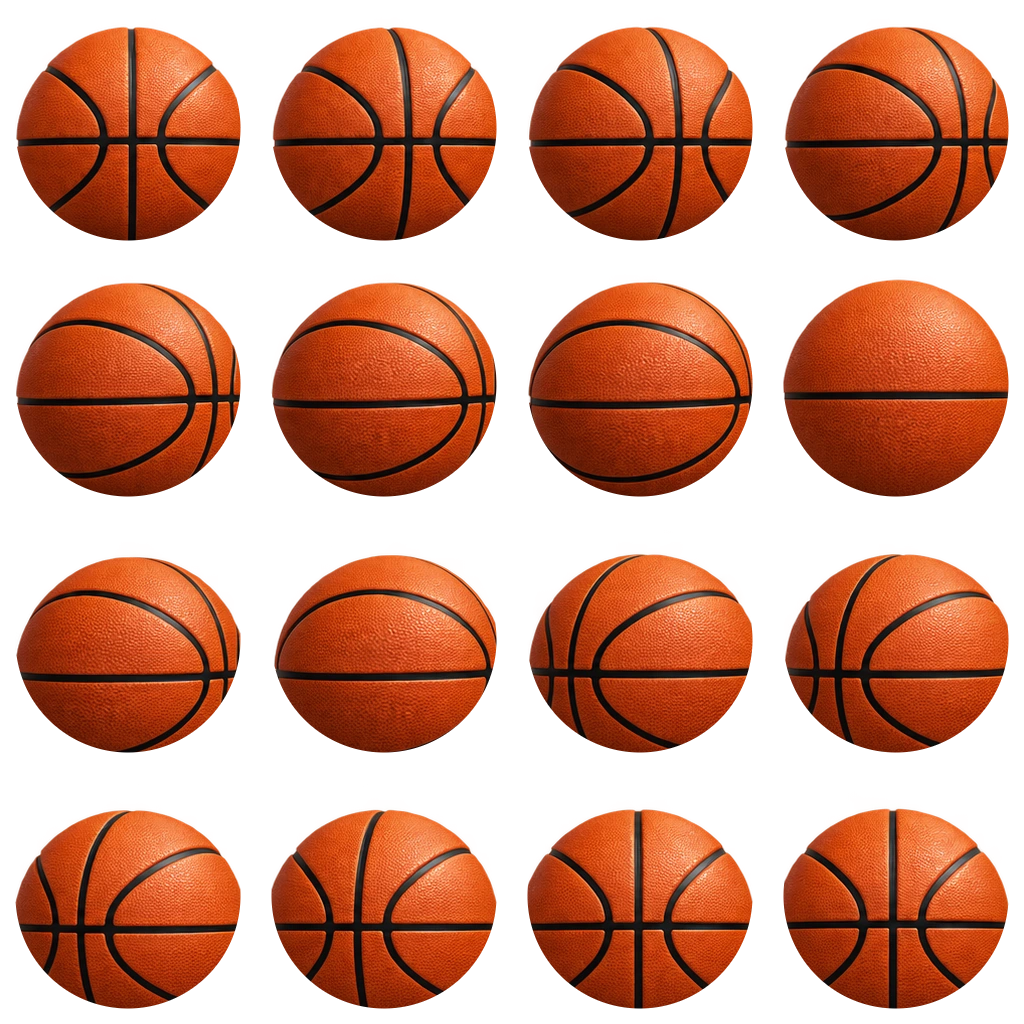
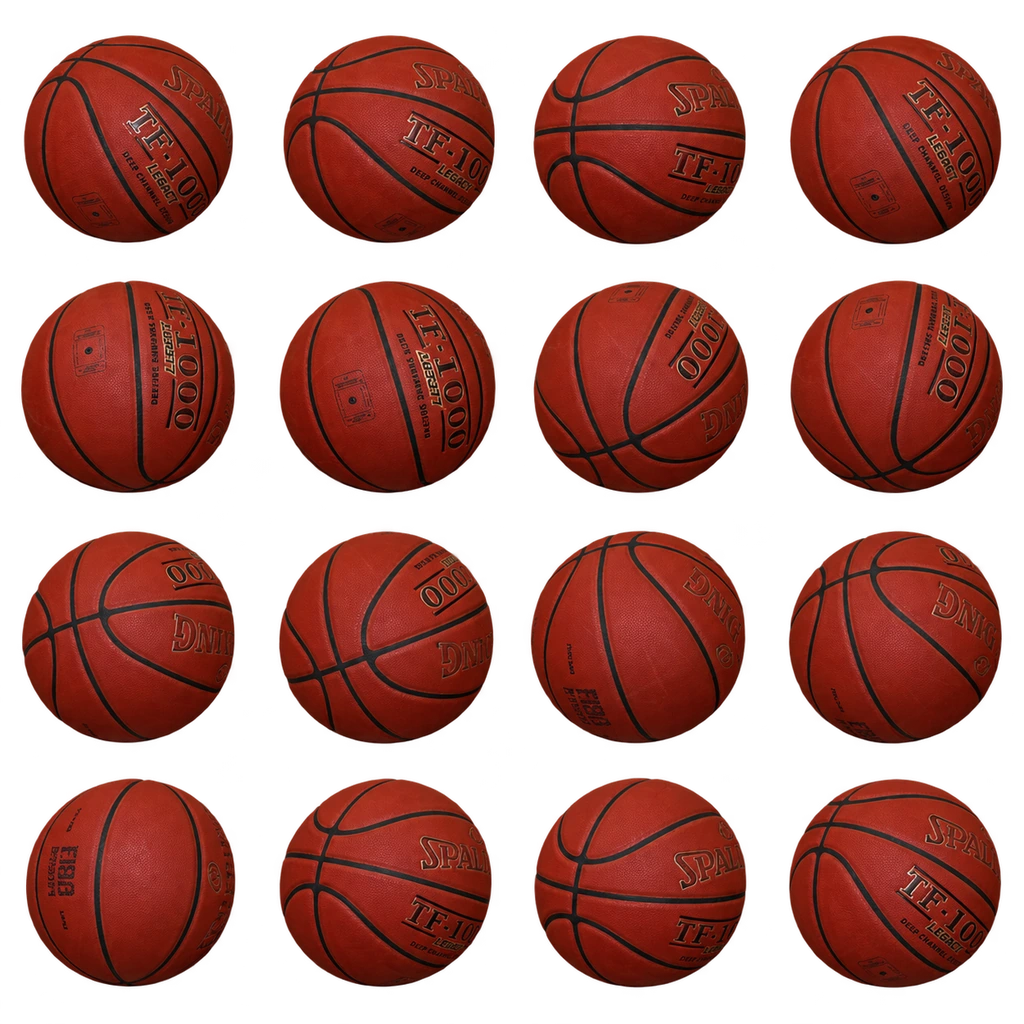
feat(hero): photographed Spalding sprite and diagonal distance-driven roll
* ci(asset): one-time PNG to verified 4x4 WebP conversion on feature branch

* assets(hero): convert photographed 16-frame PNG into WebP

* chore(asset): remove completed one-time PNG conversion workflow

* feat(hero): straight diagonal and distance-based real-ball frame rotation

* fix(hero): first frame aligns with new top-right roll and unrotated photo sprite

* docs(hero): photographed WebP conversion and physically coupled diagonal roll

---------

diff --git a/resources/js/page-builder-rolling-ball.js b/resources/js/page-builder-rolling-ball.js
@@ -8,21 +8,16 @@ const rollingBallReducedMotion = window.matchMedia('(prefers-reduced-motion: red
 // the sprite renderer or reintroducing slide-specific layers.
 const rollingBallProfiles = {
     mobile: {
-        path: 'M 235 405 C 430 440 785 510 850 615 C 900 735 600 920 205 1000',
-        startScale: .75,
-        endScale: 1,
+        from: [850, 405], to: [205, 1000],
+        startScale: .75, endScale: 1, tileSize: 122,
     },
     tablet: {
-        path: 'M 410 425 C 555 445 775 485 785 590 C 800 730 575 907 290 1000',
-        startScale: .43,
-        endScale: 1,
+        from: [785, 425], to: [290, 1000],
+        startScale: .43, endScale: 1, tileSize: 165,
     },
     desktop: {
-        // Tighter court-perspective arc: rightmost ~77%, landing at 31.5%.
-        // A small starting ball reads as distant at natural parquet scale.
-        path: 'M 520 440 C 615 445 735 495 745 595 C 760 750 590 900 315 1000',
-        startScale: .22,
-        endScale: 1,
+        from: [745, 440], to: [315, 1000],
+        startScale: .22, endScale: 1, tileSize: 195,
     },
 };
 // Old brightness at scroll 0 was .07 (almost entirely black). Its halfway
@@ -45,8 +40,18 @@ const rollingBallTravelEase = value => {
 // The ball now completes the entire first-scene path in 70% of the
 // formerly required scroll distance, then remains attached to the hero.
 const rollingBallTimelineFactor = .7;
-const rollingBallCycles = 6;
 const rollingBallSpriteFrames = 16;
+const rollingBallAssetRevision = 'photo-20261017-v1';
+const rollingBallTwoPi = 2 * Math.PI;
+
+// Approximate no-slip physical rolling: angular displacement = integral(ds/R)
+// along the straight, screen-projected path as the apparent radius grows.
+function rollingBallAngularTravel(distance, startRadius, endRadius, progress) {
+    const t = rollingBallClamp(progress, 0, 1);
+    const delta = endRadius - startRadius;
+    if (Math.abs(delta) < 1e-6) return distance * t / startRadius;
+    return distance * Math.log((startRadius + delta * t) / startRadius) / delta;
+}
 
 function initRollingBall(root) {
     if (root.dataset.rollingBallReady === '1') return;
@@ -71,11 +76,20 @@ function initRollingBall(root) {
             root.style.setProperty('--ball-image', `url("${url.replaceAll('"', '%22')}")`);
         }
     };
+    // Bypass cached old WebP while preserving Filament custom asset URLs.
+    const originalUrl = new URL(sprite.getAttribute('src') || sprite.src, location.href);
+    if (originalUrl.pathname === '/images/ball-16.webp') {
+        originalUrl.searchParams.set('v', rollingBallAssetRevision);
+        sprite.src = originalUrl.toString();
+    }
     if (sprite.complete) useSprite();
     else sprite.addEventListener('load', useSprite, { once: true });
 
-    const path = document.createElementNS('http://www.w3.org/2000/svg', 'path');
-    let pathLength = 0;
+    let apparentPathDistance = 0;
+    let startRadius = 1;
+    let endRadius = 1;
+    let roundedTurns = 1;
+    let maxPhysicalAngle = 1;
     let start = 0;
     let distance = 270;
     let target = 0;
@@ -88,13 +102,19 @@ function initRollingBall(root) {
     function paint(progress) {
         const p = rollingBallReducedMotion.matches ? 1 : progress;
         const travel = rollingBallTravelEase(p);
-        const point = path.getPointAtLength(pathLength * travel);
+        // Both axes use the same progress: geometrically a straight line.
+        const x = activeProfile.from[0] + (activeProfile.to[0] - activeProfile.from[0]) * travel;
+        const y = activeProfile.from[1] + (activeProfile.to[1] - activeProfile.from[1]) * travel;
         const light = rollingBallSmooth(travel);
-        // First and final frames are *exactly* frame 0 (frontal view).
-        const frame = p >= 1 ? 0 : Math.round(travel * rollingBallSpriteFrames * rollingBallCycles) % rollingBallSpriteFrames;
+        const angle = rollingBallAngularTravel(apparentPathDistance, startRadius, endRadius, travel);
+        // Nearest complete number of revolutions guarantees frame 0 on landing.
+        const framesTravelled = maxPhysicalAngle > 0
+            ? angle / maxPhysicalAngle * roundedTurns * rollingBallSpriteFrames
+            : 0;
+        const frame = p >= 1 ? 0 : Math.floor(framesTravelled + 1e-8) % rollingBallSpriteFrames;
 
-        root.style.left = (point.x / 10).toFixed(3) + '%';
-        root.style.top = (point.y / 10).toFixed(3) + '%';
+        root.style.left = (x / 10).toFixed(3) + '%';
+        root.style.top = (y / 10).toFixed(3) + '%';
         root.style.setProperty('--ball-scale',
             (activeProfile.startScale + (activeProfile.endScale - activeProfile.startScale) * travel).toFixed(4));
         root.style.setProperty('--ball-brightness',
@@ -115,8 +135,13 @@ function initRollingBall(root) {
         const rect = slider.getBoundingClientRect();
         const band = rect.width <= 640 ? 'mobile' : rect.width <= 1050 ? 'tablet' : 'desktop';
         activeProfile = rollingBallProfiles[band];
-        path.setAttribute('d', activeProfile.path);
-        pathLength = path.getTotalLength();
+        const dx = (activeProfile.to[0] - activeProfile.from[0]) / 1000 * rect.width;
+        const dy = (activeProfile.to[1] - activeProfile.from[1]) / 1000 * rect.height;
+        apparentPathDistance = Math.hypot(dx, dy);
+        startRadius = activeProfile.tileSize * activeProfile.startScale / 2;
+        endRadius = activeProfile.tileSize * activeProfile.endScale / 2;
+        maxPhysicalAngle = rollingBallAngularTravel(apparentPathDistance, startRadius, endRadius, 1);
+        roundedTurns = Math.max(1, Math.round(maxPhysicalAngle / rollingBallTwoPi));
         // If Hero is already within the initial viewport (homepage), start
         // at scrollY=0 rather than waiting for a fixed header offset.
         // Below-the-fold scenes start when they approach the viewport.

diff --git a/resources/css/page-builder-rolling-ball.css b/resources/css/page-builder-rolling-ball.css
@@ -19,7 +19,7 @@
 .mskba-page-builder .mskba-rolling-ball {
     position: absolute;
     z-index: 3;
-    left: 23.5%;
+    left: 85%;
     top: 40.5%;
     width: 0;
     height: 0;
@@ -41,11 +41,12 @@
     height: 122px;
     left: 0;
     top: 0;
-    background-image: var(--ball-image, url('/images/ball-16.webp'));
+    background-image: var(--ball-image, url('/images/ball-16.webp?v=photo-20261017-v1'));
     background-repeat: no-repeat;
     background-size: 400% 400%;
     background-position: var(--ball-frame-x) var(--ball-frame-y);
-    transform: translate(-50%, -50%) scale(var(--ball-scale)) rotate(90deg);
+    /* Photo frames already follow the physical roll axis: no legacy 90deg correction. */
+    transform: translate(-50%, -50%) scale(var(--ball-scale));
     transform-origin: center center;
     filter: brightness(var(--ball-brightness)) saturate(var(--ball-saturation))
         drop-shadow(0 6px 8px rgba(0,0,0,.34));
@@ -71,7 +72,7 @@
 }
 @container mskba-rolling-scene (min-width: 641px) {
     .mskba-page-builder .mskba-rolling-ball {
-        left: 41%;
+        left: 78.5%;
         top: 42.5%;
         --ball-scale: .43;
     }
@@ -79,7 +80,7 @@
 }
 @container mskba-rolling-scene (min-width: 1051px) {
     .mskba-page-builder .mskba-rolling-ball {
-        left: 52%;
+        left: 74.5%;
         top: 44%;
         --ball-scale: .22;
     }

diff --git a/docs/specification/page-builder-rolling-ball-temporary.md b/docs/specification/page-builder-rolling-ball-temporary.md
@@ -44,27 +44,39 @@ upgrade. Do not add
 `<script>`, inline CSS, SVG, or event-handler attributes to editor HTML.
 **Slider itself is intentionally untouched.**
 
-The sprite must be exactly 1024 x 1024, a 4 x 4 grid of 256 x 256
-square frames. The approved file is now tracked at
-`public/images/ball-16.webp` and is served at `/images/ball-16.webp`.
-A different size will not activate the overlay, by design.
+The photographed source sprite `public/images/ball-16.png` is 1254 x 1254,
+with 16 RGBA frames in a 4 x 4 grid. Each tile is cropped independently
+using rounded quarter-sheet boundaries and resized to 256 x 256, avoiding
+bleed across half-pixel tile boundaries. The optimized file is
+`public/images/ball-16.webp` (1024 x 1024, 4 x 4). Conversion verified
+16 nonempty frames and preserved alpha. The transparent WebP is **301,614 B**
+vs **1,942,087 B** source PNG (84.5% smaller).
+The homepage's existing Filament HTML continues to reference
+`/images/ball-16.webp`. The frontend uses `?v=photo-20261017-v1` to
+avoid the previous sprite from browser cache. The rendered image must be
+1024 x 1024; other sizes are rejected before use.
 
 ## Current behavior
 
-- Three motion profiles selected by **actual scene width** (<=640,
-  641–1050, >1050), not browser/device brand. Each profile controls its own
-  path and scale; light level is currently shared across profiles:
-  - mobile: ball tile 122 CSS px, scale **0.75 → 1.00**; existing path untouched
-    (rightmost center at ~85.5% of Hero, final center at 20.5%).
-  - tablet: tile 165 CSS px, scale **0.43 → 1.00**; rightmost center ~78.6%,
-    final center at 29%.
-  - desktop: tile 195 CSS px, scale **0.22 → 1.00**; rightmost center ~74.6%,
-    final center at 31.5%, to the right of the CTA.
-- Profiles describe **apparent size relative to court perspective**;
-  end scale remains 1.00 on all screen sizes. First paint in CSS uses the
-  same start coordinates, scale and lighting as the JS profile, so nothing
-  snaps into position after the JavaScript bundle loads.
-- Six full cycles of the original 16 frames; last step is frame 1.
+- **Straight diagonal roll** on the wood floor, not a Bezier arc. Both
+  screen coordinates use exactly the same eased progress. Starting (x,y)
+  and finishing (x,y) percentages of the rendered Hero:
+  - mobile: (85%, 40.5%) → (20.5%, 100%), scale 0.75 → 1;
+  - tablet: (78.5%, 42.5%) → (29%, 100%), scale 0.43 → 1;
+  - desktop: (74.5%, 44%) → (31.5%, 100%), scale 0.22 → 1.
+  The end point remains half the ball outside the bottom of the Hero.
+- Sprite frame selection is based on **projected screen-space distance**
+  and ball radius, not `wheel` events, per-event pixel deltas or elapsed
+  time. Angle increases by an integral of `ds/r` as the apparent ball
+  size grows; the final total is adjusted to the closest whole number of
+  rotations so the ball stops *exactly* on frame 0, frontal view.
+  The direction is the one photographed on the real Spalding (frame order
+  0..15). Reverse scroll reverses frames. No 90-degree wrapper rotation.
+- No frame blending. A ball with a larger visible radius rotates less
+  for the same distance than a distant smaller ball. Note: this is
+  **screen-perspective approximation**, not a full 3D rigid-body solver.
+- Landing remains 30% earlier than the old scroll-distance duration, with
+  no fixed/sticky Hero or page-wide overlay.
 - No frame blending or optical flow. The CSS pseudo-element renders frame zero
   **as soon as the stylesheet loads**, even before JS; the ball is never
   hidden with opacity at scroll progress zero. Starting brightness is **0.57**
@@ -78,8 +90,7 @@ A different size will not activate the overlay, by design.
   (30% earlier). A custom smooth easing has nonzero initial velocity but
   settles gently at the end. In the landed state progress is clamped to 1,
   and the ball remains positioned inside its natural Hero container.
-- Six sprite cycles are retained; the **last frame is explicitly frame zero**,
-  matching the opening frontal / anfas basketball sprite frame.
+- The **last frame is explicitly frame zero**, matching the opening frontal / anfas basketball sprite frame.
 - Motion is tied to native page scroll. Hero never gets `position: fixed`
   or `sticky`; ball stays in its final relative position after movement.
 - A single decorative overlay, consistently visible over all slides.
@@ -89,7 +100,7 @@ A different size will not activate the overlay, by design.
   Content editor z-index remains adjustable for other decorative graphics.
 - Opt-in only if a real sprite image can load and its size is valid.
 - Reduced-motion users get the final resting state.
-- Sprite frame container has `rotate(90deg)`, matching the approved demo.
+- No extra CSS rotation: photographed frames already contain the intended roll axis.
 - Layer does not intercept pointer events or slider navigation.
 
 ## Integration files
@@ -108,8 +119,7 @@ A different size will not activate the overlay, by design.
    arbitrary executable JavaScript (a separate design discussion).
 3. Check that the ball is compatible with every slider background and with
    pagination/CTA in the final page design.
-4. Consider controlling movement by real world surface travel instead of
-   a fixed six rotations for a more physically accurate roll.
+4. Calibrate projected physical angular travel against the real photo sequence on mobile/tablet/desktop. If needed, introduce per-scene spin-direction calibration without changing the sprite itself.
 5. Maintain sanitizer boundary, existing published snapshots, and
    mobile reduced-motion support.
 
